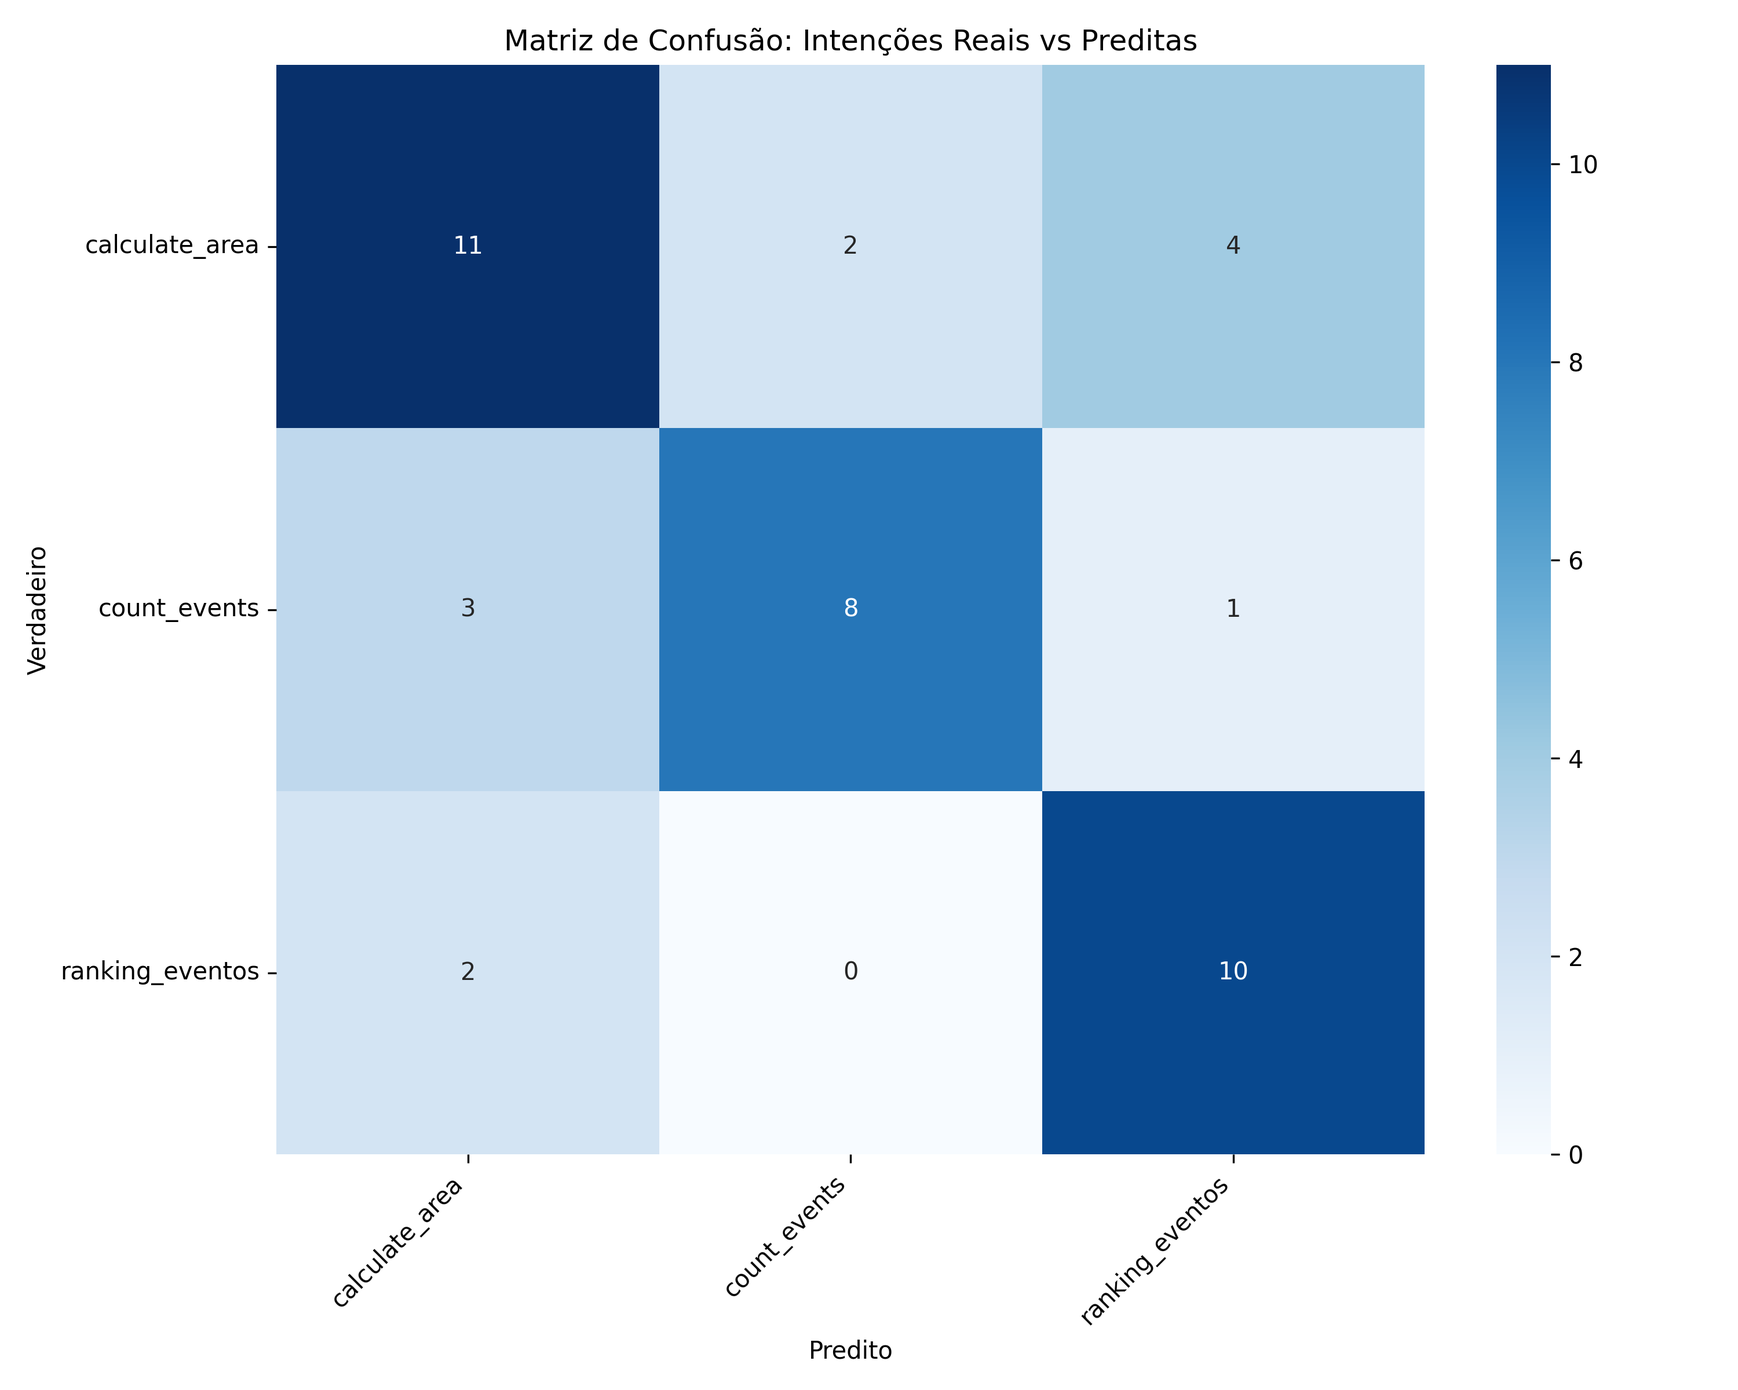
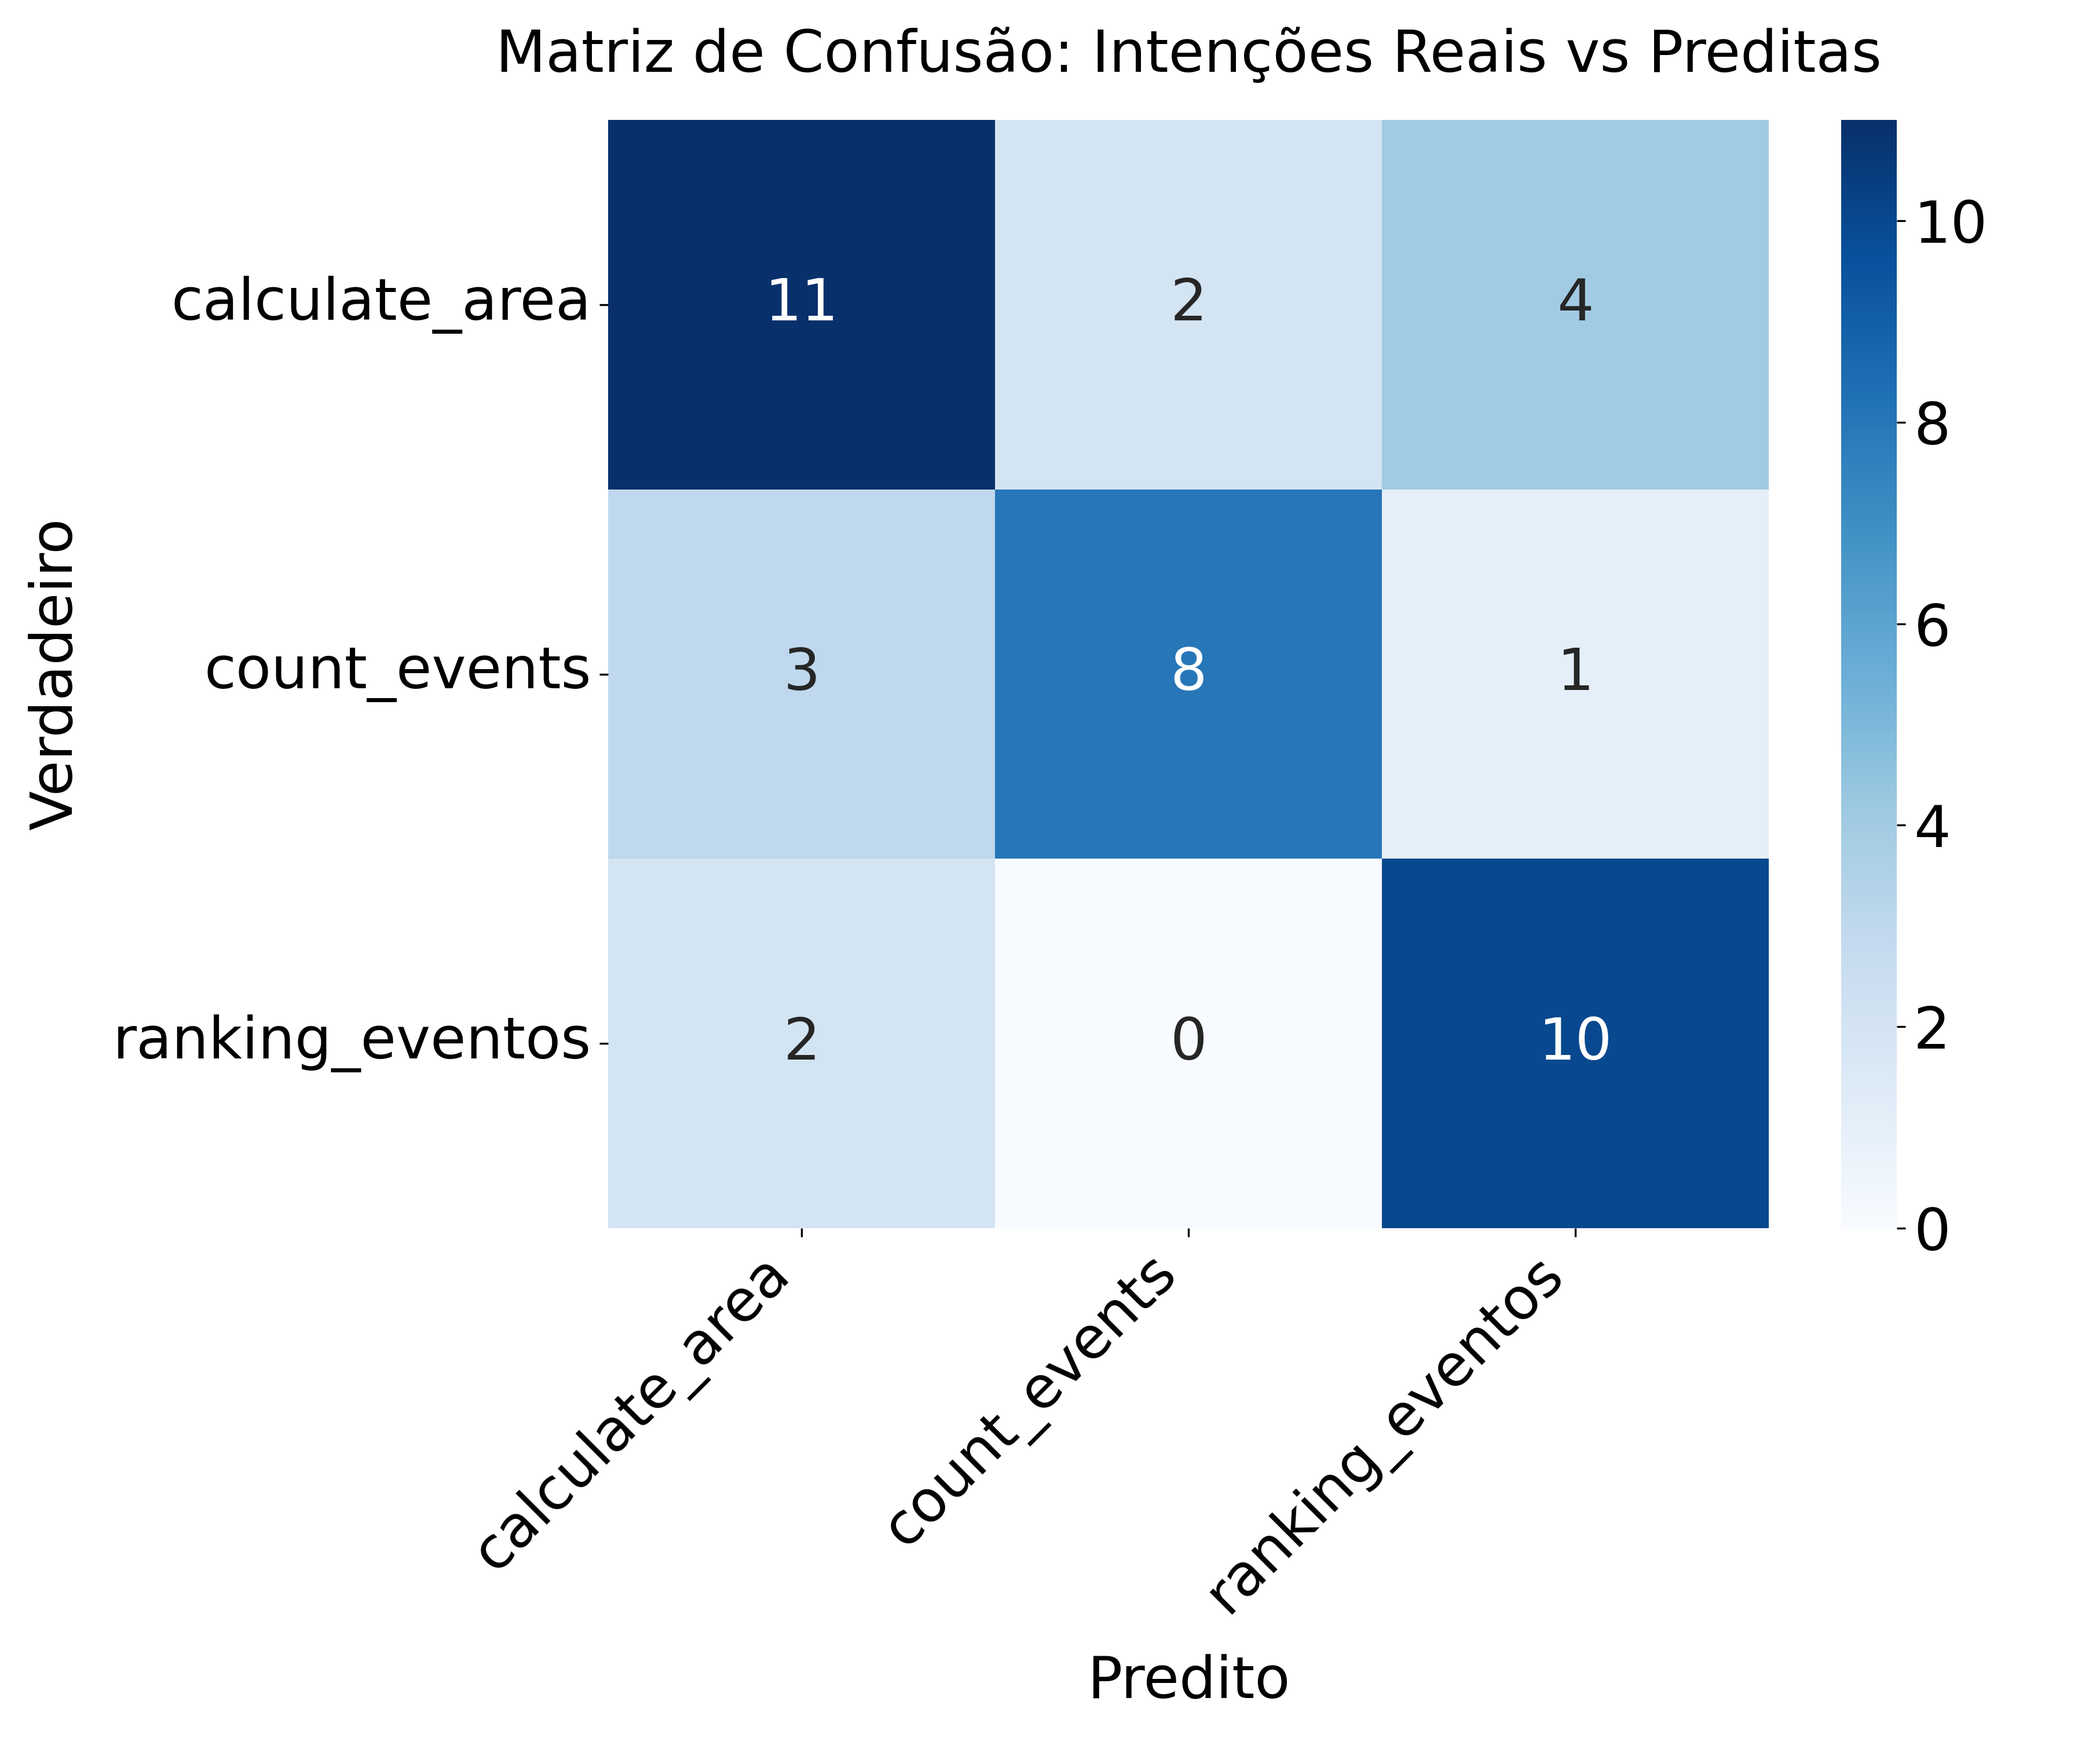
att

diff --git a/src/utils/evaluate_confusion.py b/src/utils/evaluate_confusion.py
@@ -56,19 +56,24 @@ def generate_confusion_matrix():
     print(classification_report(y_true, y_pred, labels=labels, zero_division=0))
 
     # 7. Plotar Gráfico (Heatmap)
-    plt.figure(figsize=(10, 8))
+    fig, ax = plt.subplots(figsize=(12, 10))
     sns.heatmap(
         cm,
         annot=True,
         fmt='d',
         xticklabels=labels,
         yticklabels=labels,
-        cmap='Blues'
+        cmap='Blues',
+        annot_kws={"size": 24},
+        ax=ax,
     )
 
-    plt.title('Matriz de Confusão: Intenções Reais vs Preditas')
-    plt.ylabel('Verdadeiro')
-    plt.xlabel('Predito')
+    ax.set_title('Matriz de Confusão: Intenções Reais vs Preditas', fontsize=24, pad=20)
+    ax.set_ylabel('Verdadeiro', fontsize=24, labelpad=12)
+    ax.set_xlabel('Predito', fontsize=24, labelpad=12)
+    ax.tick_params(axis='x', labelsize=24)
+    ax.tick_params(axis='y', labelsize=24)
+    ax.collections[0].colorbar.ax.tick_params(labelsize=24)
     plt.xticks(rotation=45, ha='right')
     plt.yticks(rotation=0)
     plt.tight_layout()

diff --git a/recriar_matriz.py b/recriar_matriz.py
@@ -1,0 +1,39 @@
+import numpy as np
+import matplotlib.pyplot as plt
+import seaborn as sns
+
+labels = ['calculate_area', 'count_events', 'ranking_eventos']
+
+cm = np.array([
+    [11, 2,  4],
+    [ 3, 8,  1],
+    [ 2, 0, 10],
+])
+
+fig, ax = plt.subplots(figsize=(12, 10))
+
+sns.heatmap(
+    cm,
+    annot=True,
+    fmt='d',
+    xticklabels=labels,
+    yticklabels=labels,
+    cmap='Blues',
+    annot_kws={"size": 24},
+    ax=ax,
+)
+
+ax.set_title('Matriz de Confusão: Intenções Reais vs Preditas', fontsize=24, pad=20)
+ax.set_ylabel('Verdadeiro', fontsize=24, labelpad=12)
+ax.set_xlabel('Predito', fontsize=24, labelpad=12)
+ax.tick_params(axis='x', labelsize=24)
+ax.tick_params(axis='y', labelsize=24)
+plt.xticks(rotation=45, ha='right')
+plt.yticks(rotation=0)
+
+cbar = ax.collections[0].colorbar
+cbar.ax.tick_params(labelsize=24)
+
+plt.tight_layout()
+plt.savefig("matriz_confusao.png", dpi=300)
+print("matriz_confusao.png salva com sucesso.")
